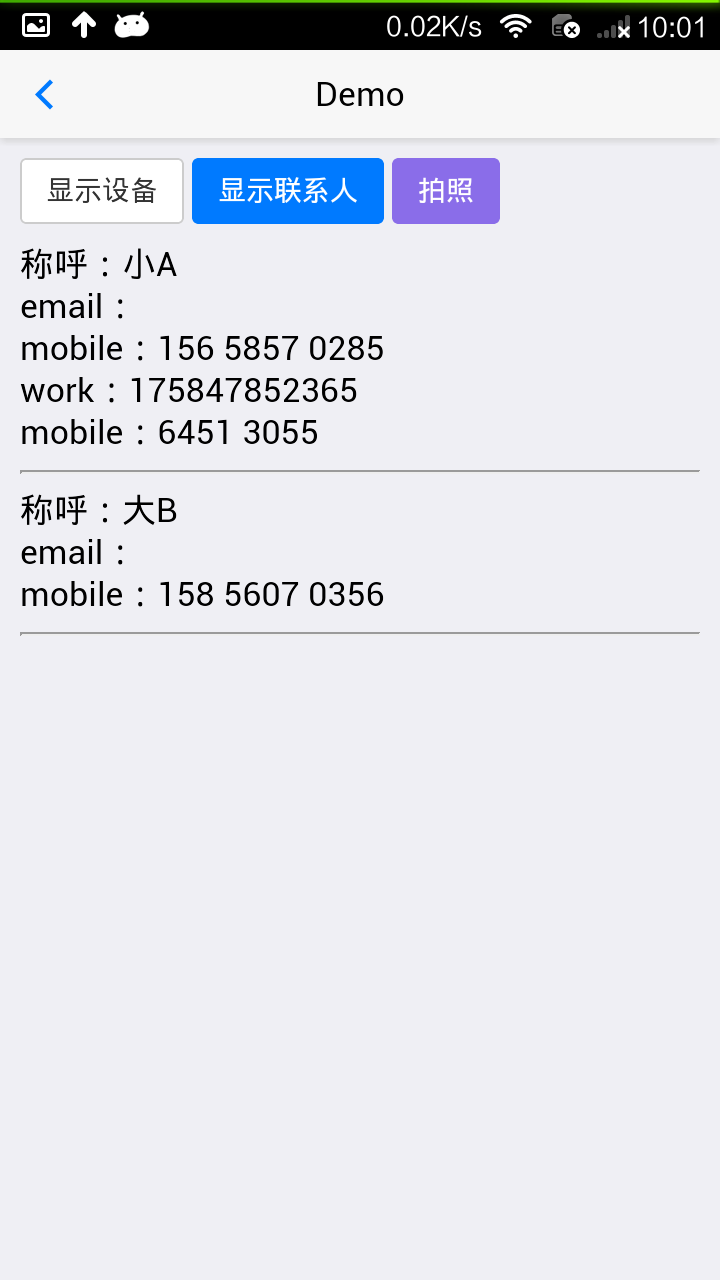
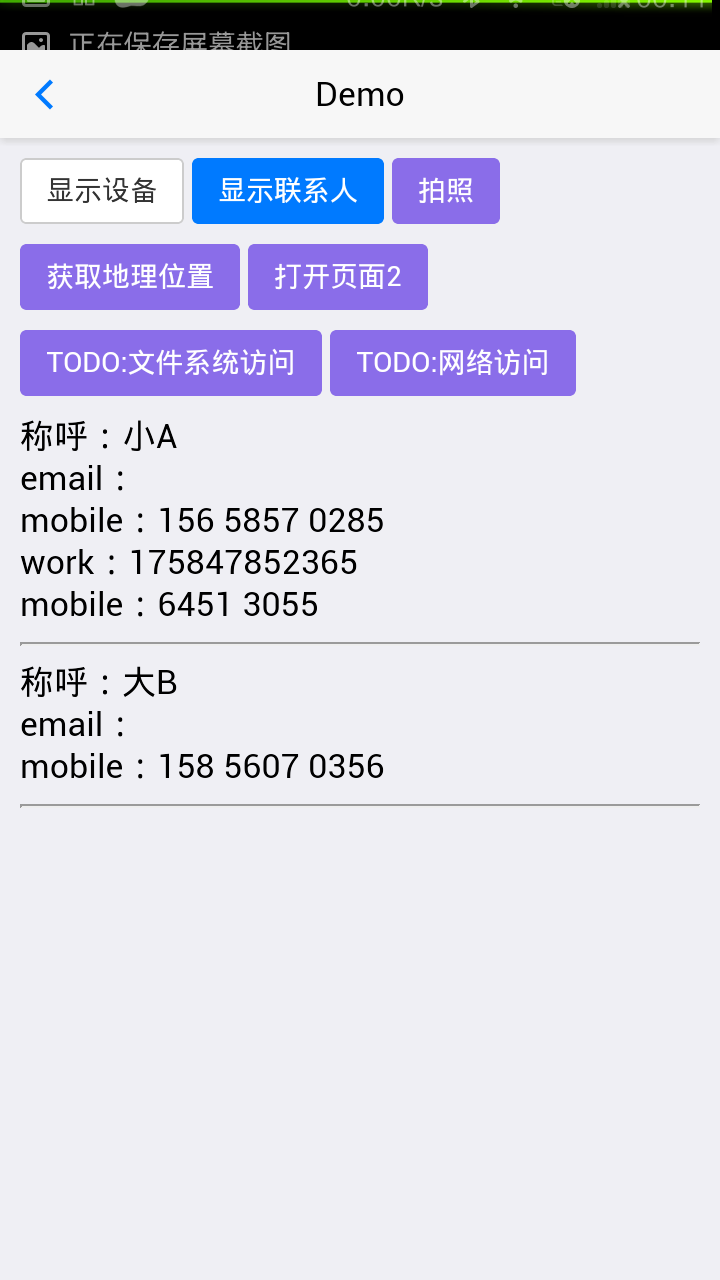
readme

diff --git a/README.md b/README.md
@@ -1,5 +1,20 @@
-# cordova demo
+# cordova demo app
 
+### 安装
+```bash
+wget https://github.com/lichtung/cordo/archive/master.zip
+unzip master.zip
+cd cordo-master
+npm install
+./build.sh
+
+# 在Android模拟器中运行
+cordova run android
+# 生成发行版
+cordova build android --release
+```
+生成android发行版时apk存放的目录是**.../cordo-master/platforms/android/build/outputs/apk/**
+之后就看到了该目录下躺着**android-release.apk**
 
 该示例使用了以下插件：
 - cordova-plugin-camera^2.4.1
@@ -19,3 +34,8 @@
 - 拍照并获取照片base64码
 
 ![screenshot](https://raw.githubusercontent.com/lichtung/cordo/master/screenshots/3.png)
+
+
+- 获取地理位置
+
+![screenshot](https://raw.githubusercontent.com/lichtung/cordo/master/screenshots/4.png)
